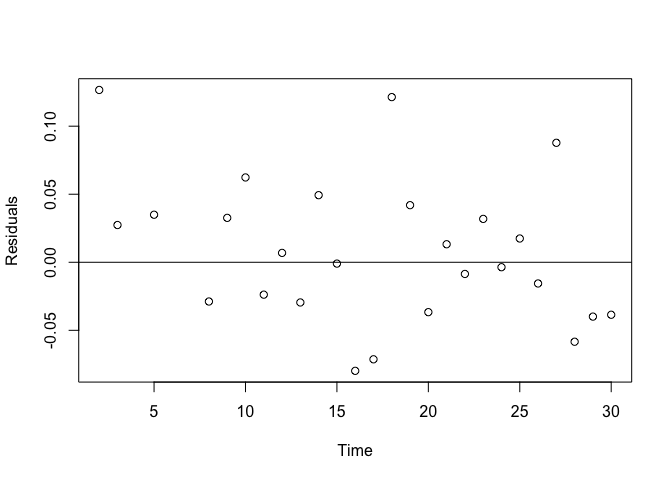
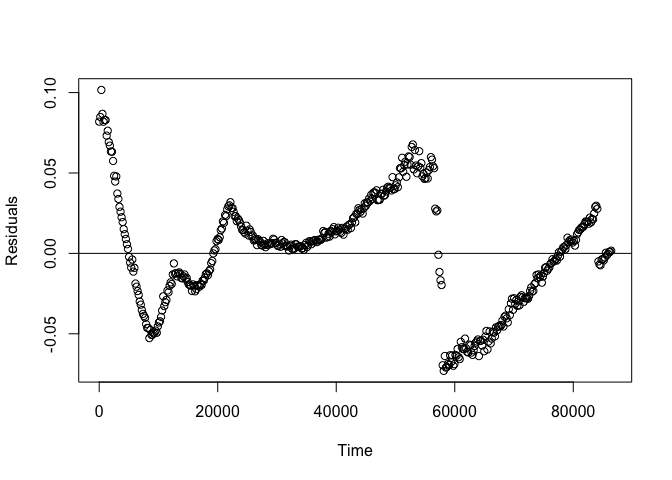
README update

diff --git a/README.md b/README.md
@@ -5,7 +5,7 @@ growthcurve is an [R](http://r-project.org) package for analyzing
 biological growth curves. It is designed to integrate into modern
 workflows, allowing it to be used in conjunction with other tools.
 
-This package is currently a wrapper for the 
+This package is currently a wrapper for the
 [grofit](http://cran.r-project.org/web/packages/grofit/index.html)
 package, which is no longer being developed. This is temporary, as I
 plan to eventually make growthcurve an independent tool with more
@@ -19,136 +19,166 @@ Installation
 [devtools](http://cran.r-project.org/web/packages/devtools/index.html)
 to install the current development version:
 
-    if(!require('devtools')) install.packages('devtools')
-    devtools::install_github('briandconnelly/growthcurve')
+    if(!require("devtools")) install.packages("devtools")
+    devtools::install_github("briandconnelly/growthcurve")
 
-**Note that a lot of changes are being made right now, so things may not always work.**
+**Note that a lot of changes are being made, so things might not always
+work.**
 
 Examples
 --------
 
 ### Fit a single logistic growth curve
 
-First, let's create some sample data containing some time points in the
-*Time* column and some corresponding growth measurements in the *OD600*
-column and take a look at the first few rows:
+Let's take `growthcurve` for a spin by fitting a logistic growth curve
+to some data from the included `phage` data set.
 
     sampledata <- data.frame(Time=1:30, OD600=1/(1+exp(0.5*(15-1:30)))+rnorm(30)/20)
+    library(growthcurve)
+
+    # Load the data and take a look at the first few rows:
+    data(phage)
+    head(phage)
 
 <table>
 <colgroup>
-<col width="9%" />
 <col width="12%" />
+<col width="11%" />
+<col width="9%" />
+<col width="9%" />
+<col width="9%" />
 </colgroup>
 <thead>
 <tr class="header">
+<th align="center">Strain</th>
+<th align="center">Phage</th>
+<th align="center">Well</th>
 <th align="center">Time</th>
-<th align="center">OD600</th>
+<th align="center">OD420</th>
 </tr>
 </thead>
 <tbody>
 <tr class="odd">
-<td align="center">1</td>
-<td align="center">-0.07</td>
+<td align="center">WT</td>
+<td align="center">TRUE</td>
+<td align="center">A1</td>
+<td align="center">0</td>
+<td align="center">0.3881</td>
 </tr>
 <tr class="even">
-<td align="center">2</td>
-<td align="center">0.1291</td>
+<td align="center">WT</td>
+<td align="center">TRUE</td>
+<td align="center">A1</td>
+<td align="center">180</td>
+<td align="center">0.3637</td>
 </tr>
 <tr class="odd">
-<td align="center">3</td>
-<td align="center">0.0313</td>
+<td align="center">WT</td>
+<td align="center">TRUE</td>
+<td align="center">A1</td>
+<td align="center">360</td>
+<td align="center">0.346</td>
 </tr>
 <tr class="even">
-<td align="center">4</td>
-<td align="center">-0.07022</td>
+<td align="center">WT</td>
+<td align="center">TRUE</td>
+<td align="center">A1</td>
+<td align="center">540</td>
+<td align="center">0.3441</td>
 </tr>
 <tr class="odd">
-<td align="center">5</td>
-<td align="center">0.04461</td>
+<td align="center">WT</td>
+<td align="center">TRUE</td>
+<td align="center">A1</td>
+<td align="center">720</td>
+<td align="center">0.3337</td>
 </tr>
 <tr class="even">
-<td align="center">6</td>
-<td align="center">-0.009969</td>
+<td align="center">WT</td>
+<td align="center">TRUE</td>
+<td align="center">A1</td>
+<td align="center">900</td>
+<td align="center">0.3318</td>
 </tr>
 </tbody>
 </table>
 
-(let's pretend like negative values for OD600 are ok for now)
+In this experiment, [Luis Zaman](http://luis.labfab.cc) measured the
+growth of two strains of *E. coli* both with and without phage.
+Replicate populations were grown in the wells of a microtiter plate, and
+absorbance was measured every three minutes.
 
-Now, let's fit a logistic growth curve for this data set:
+Although we eventually want to compare the growth of each population,
+we're going to focus on the population in well **A12** for now. We can
+get this subset of the data using the `filter` function from
+[dplyr](http://cran.r-project.org/web/packages/dplyr/index.html).
 
-    library(growthcurve)
+    library(dplyr)
 
-    lfit <- fit_growth_logistic(sampledata, Time, OD600)
+    a12data <- filter(phage, Well=="A12")
 
-Information about the logistic fit is available in `parameters`:
+Now, let's fit a logistic growth curve for this population:
 
-    lfit$parameters
+    a12fit <- fit_growth_logistic(a12data, Time, OD420)
 
-    ## $A
-    ##   Estimate Std. Error 
-    ## 1.01919333 0.02091845 
-    ## 
-    ## $mu
+    ## --> Try to fit model logistic
+
+Note that we could have gotten fancy and combined the last two steps
+using
+[magrittr's](http://cran.r-project.org/web/packages/magrittr/index.html)
+lovely pipe operator:
+
+    a12fit <- phage %>%
+        filter(Well=="A12") %>%
+        fit_growth_logistic(Time, OD420)
+
+    ## --> Try to fit model logistic
+
+We can now look at the results to learn about the fit:
+
+    a12fit$max_growth
+
     ##    Estimate  Std. Error 
-    ## 0.115715828 0.009940762 
-    ## 
-    ## $lambda
-    ##   Estimate Std. Error 
-    ## 10.8306195  0.4194161 
-    ## 
-    ## $integral
-    ## [1] 15.04583
+    ## 0.980573926 0.002268635
 
-For this fit, the maximum growth value is 0.99848023
-(`lfit$parameters$A`), the maximum growth rate (the slope) is
-0.127109284 (`lfit$parameters$mu`), the lag phase ends approximately
-time 10.9985254 (`lfit$parameters$lambda`), and the area under the
-growth curve is about 15 (`lfit$parameters$integral`). The units for
-these results depend on the units in the input data.
+    a12fit$max_rate
+
+    ##     Estimate   Std. Error 
+    ## 2.792067e-05 4.572704e-07
+
+    a12fit$lag_length
+
+    ##   Estimate Std. Error 
+    ## -8326.2947   349.5622
+
+    a12fit$integral
+
+    ## [1] 73088.97
+
+For this fit, the maximum growth value is 0.980573926 AU
+(`a12fit$max_growth`), the maximum growth rate (the slope) is
+2.792067e-05 AU/s (`a12fit$max_rate`), the lag phase ends approximately
+time -8326.2947 (`a12fit$lag_length`) (obviously not quite right), and
+the area under the growth curve is about 73088.97 (`a12fit$integral`).
 
 We can also plot the results:
 
-    plot(lfit)
+    plot(a12fit)
 
 ![](figures/plot_example_logistic-1.png)
 
 If we'd like to take a look at how well the fitted curve matches the
 data, we can plot its residuals:
 
-    lfit.res <- residuals(lfit)
-    plot(x=lfit$raw.time, y=lfit.res, xlab='Time', ylab='Residuals')
+    plot(x=a12fit$grofit$raw.time, y=resid(a12fit), xlab="Time", ylab="Residuals")
     abline(h=0)
 
 ![](figures/resid_example_logistic-1.png)
 
-### Integrating other tools
+So maybe this fit isn't quite right for these data. We can instead use
+another method.
 
-As we saw earlier, our sample data contains some negative values. If we
-want to strip those out before fitting, we can first use `filter` from
-the excellent
-[dplyr](http://cran.r-project.org/web/packages/dplyr/index.html) package
-and then pipe the results to our fitting function using the pipe
-operator (`%>%`) from
-[magrittr](http://cran.r-project.org/web/packages/magrittr/index.html).
-While we're at it, maybe it takes a while for our machine to warm up, so
-let's also only use the data after time point 5.
-
-    library(dplyr)
-    library(magrittr)
-    library(growthcurve)
-
-    sampledata <- data.frame(Time=1:30, OD600=1/(1+exp(0.5*(15-1:30)))+rnorm(30)/20)
-    lfit2 <- sampledata %>%
-        filter(OD600 >= 0) %>%
-        filter(Time > 5) %>%
-        fit_growth_logistic(Time, OD600)
-        
-    plot(lfit2)
-
-![](figures/filtered-1.png)
-
+To be continued...
 
 Related Links
 -------------
